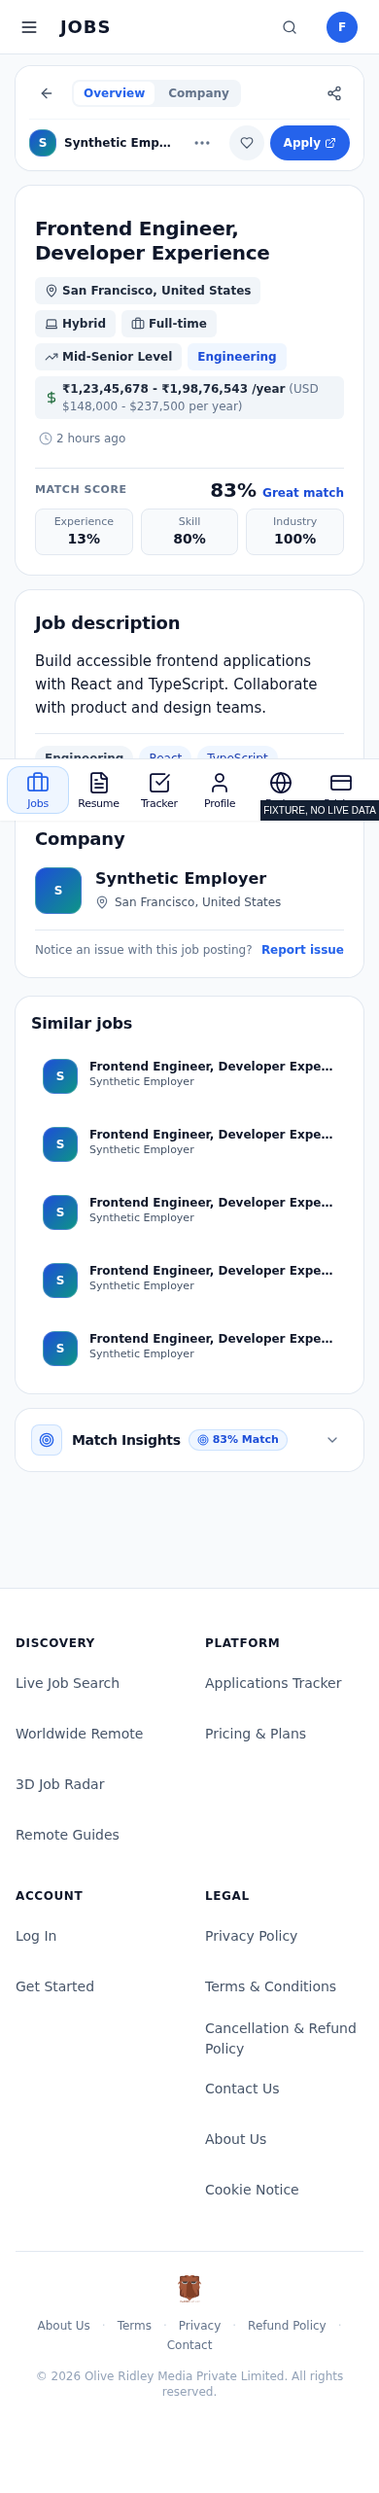
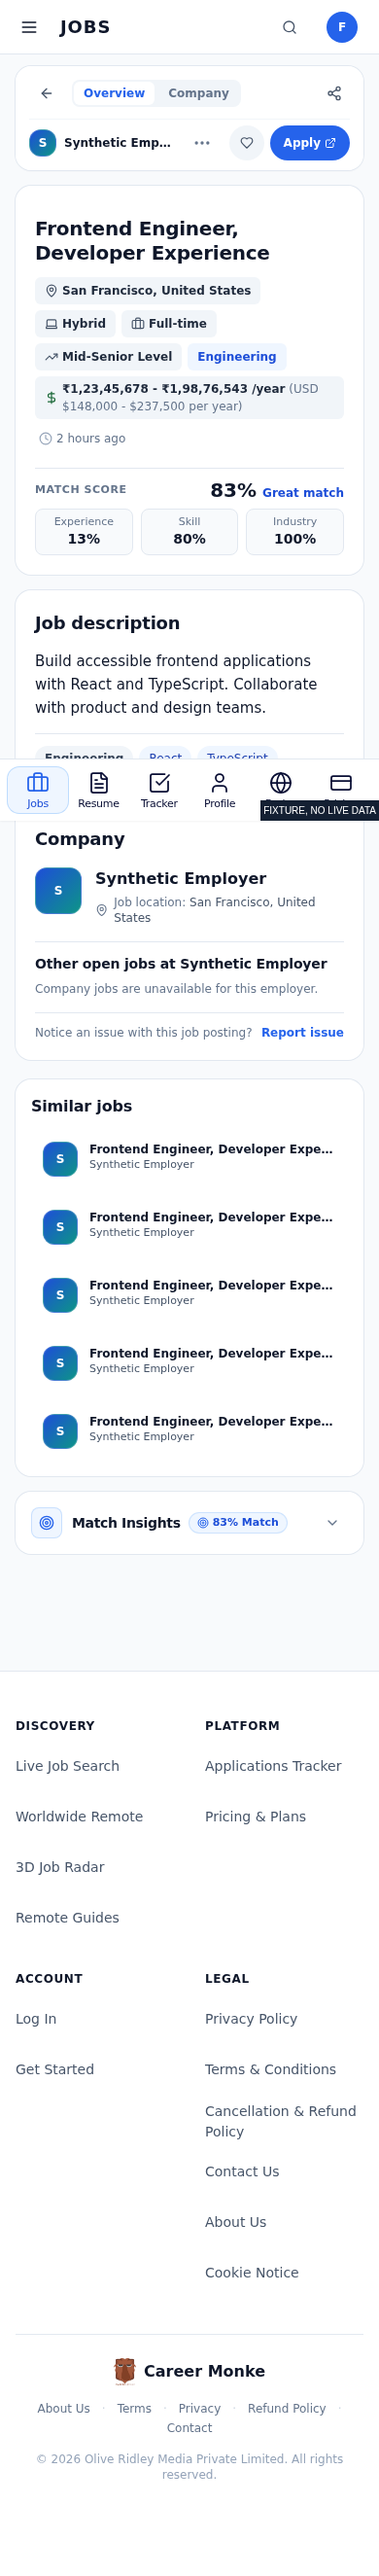
fix short-screen onboarding reachability and capture actual pricing shell

diff --git a/src/components/onboarding/OnboardingStep1.tsx b/src/components/onboarding/OnboardingStep1.tsx
@@ -84,7 +84,7 @@ export default function OnboardingStep1({
       {/* ============================================================
           MOBILE / TABLET (<1024px): main-branch markup, unchanged.
           ============================================================ */}
-      <div className="lg:hidden w-full max-w-lg md:max-w-2xl mx-auto flex flex-col pb-10 md:pb-12 pt-4 md:pt-8 px-4 sm:px-6 md:px-8">
+      <div className="lg:hidden w-full max-w-lg md:max-w-2xl mx-auto flex flex-col pb-28 md:pb-12 pt-4 md:pt-8 px-4 sm:px-6 md:px-8">
         {/* Step instruction (neutral copy; the former assistant persona header was removed by owner decision) */}
         <p className="mb-3 md:mb-8 text-base md:text-lg font-semibold text-zinc-900 dark:text-zinc-100 leading-snug">
           {isEditMode ? (

diff --git a/src/components/Footer.tsx b/src/components/Footer.tsx
@@ -288,6 +288,7 @@ export default function Footer({ isGuide = false }: FooterProps) {
         <div className="pt-6 border-t border-[#E2E8F0] flex flex-col sm:flex-row items-center justify-between gap-4 text-center sm:text-left">
           <div className="flex items-center">
             <BrandIcon variant="full" width={28} height={34} className="h-7 w-auto" />
+            <span className="ml-2 text-base font-bold">Career Monke</span>
           </div>
           <div className="flex flex-wrap items-center justify-center gap-x-3 gap-y-1 text-xs text-[#64748B]">
             <Link href="/about" className="hover:text-[#2563EB] transition-colors">

diff --git a/scripts/mobile-715/mocks.tsx b/scripts/mobile-715/mocks.tsx
@@ -24,3 +24,5 @@ export function Link({href,children,prefetch,...props}:any){return <a href={href
 export function Dynamic(){return ()=>null;}
 export function Shell({children}:any){return <>{children}</>;}
 export const mockFetch=async()=>new Response(JSON.stringify({fileName:'fixture.pdf',linkedinUrl:'https://linkedin.com/in/fixture',parse:{status:'parsed'}}),{status:200,headers:{'content-type':'application/json'}});
+
+export class LatestJobSelectionGate { private serial=0; begin(){return ++this.serial;} isCurrent(token:number){return token===this.serial;} cancel(){this.serial++;} }

diff --git a/src/components/shell/AppIconRail.tsx b/src/components/shell/AppIconRail.tsx
@@ -110,7 +110,7 @@ export default function AppIconRail({ currentRoute }: AppIconRailProps) {
                   <BrandIcon className="w-6 h-6" />
                 </div>
                 <span className="text-[17px] font-bold text-[#090E34] tracking-tight truncate">
-                  Career<span className="text-[#2563EB]">Monke</span>
+                  Career <span className="text-[#2563EB]">Monke</span>
                 </span>
               </Link>
 
